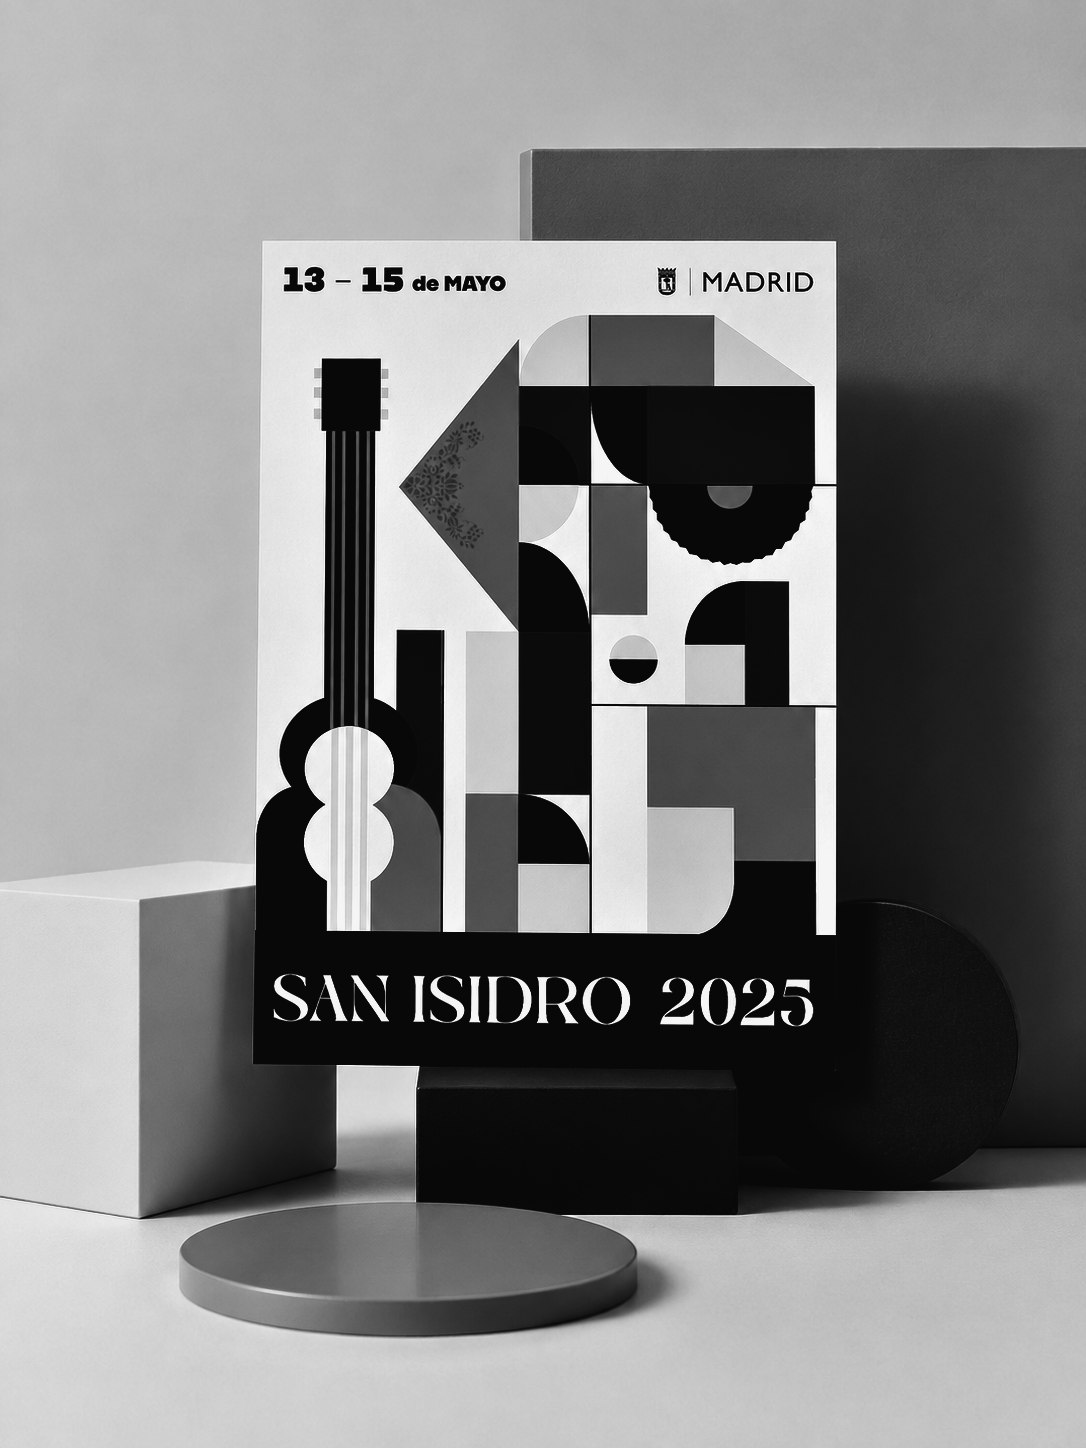
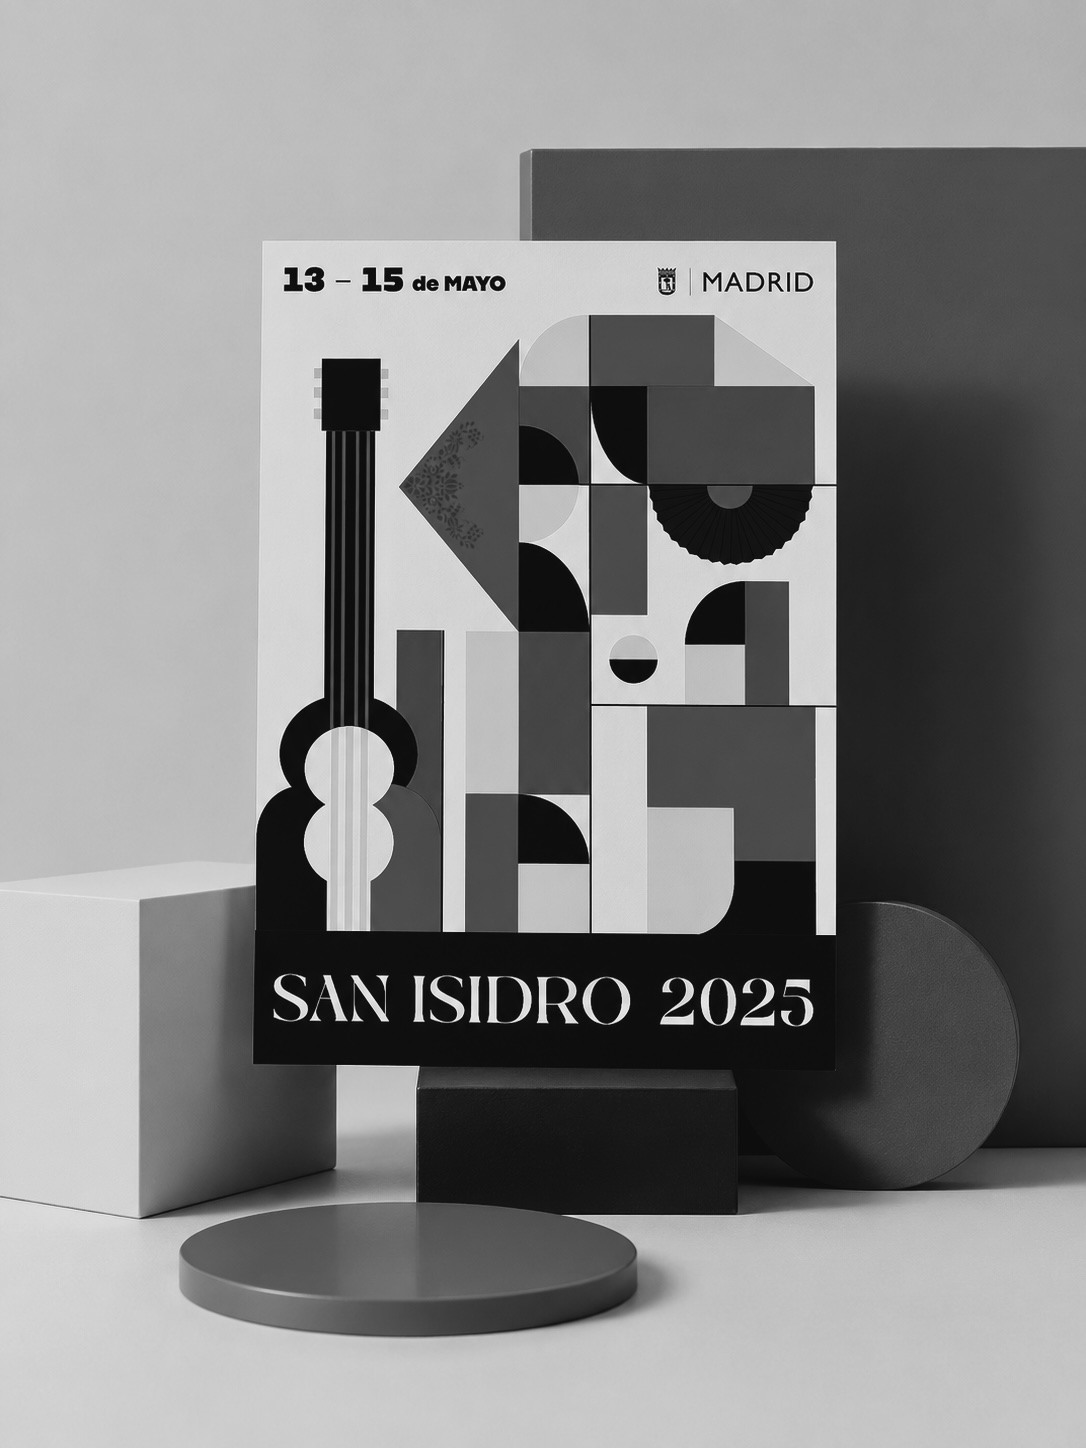
Replace B&W covers with the new user-provided versions

diff --git a/index.html b/index.html
@@ -43,23 +43,23 @@
     </div>
     <div class="work-grid">
       <a class="work-card" href="madma.html">
-        <div class="thumb"><img class="bw" src="images/covers/madma-bw.jpg?v=3" alt="MADMA"><img class="col" src="images/covers/madma.jpg" alt=""></div>
+        <div class="thumb"><img class="bw" src="images/covers/madma-bw.jpg?v=4" alt="MADMA"><img class="col" src="images/covers/madma.jpg" alt=""></div>
         <div class="meta"><h3>MADMA</h3><span>Brand identity</span></div>
       </a>
       <a class="work-card" href="sol-sal.html">
-        <div class="thumb"><img class="bw" src="images/covers/sol-sal-bw.jpg?v=3" alt="SOL &amp; SAL"><img class="col" src="images/covers/sol-sal.jpg" alt=""></div>
+        <div class="thumb"><img class="bw" src="images/covers/sol-sal-bw.jpg?v=4" alt="SOL &amp; SAL"><img class="col" src="images/covers/sol-sal.jpg" alt=""></div>
         <div class="meta"><h3>SOL &amp; SAL</h3><span>Brand identity</span></div>
       </a>
       <a class="work-card" href="xoko.html">
-        <div class="thumb"><img class="bw" src="images/covers/xoko-bw.jpg?v=3" alt="XOKO"><img class="col" src="images/covers/xoko.jpg" alt=""></div>
+        <div class="thumb"><img class="bw" src="images/covers/xoko-bw.jpg?v=4" alt="XOKO"><img class="col" src="images/covers/xoko.jpg" alt=""></div>
         <div class="meta"><h3>XOKO</h3><span>Packaging</span></div>
       </a>
       <a class="work-card" href="san-isidro.html">
-        <div class="thumb"><img class="bw" src="images/covers/san-isidro-bw.jpg?v=3" alt="San Isidro 2025" style="object-position: 50% 40%"><img class="col" src="images/covers/san-isidro.jpg" alt="" style="object-position: 50% 40%"></div>
+        <div class="thumb"><img class="bw" src="images/covers/san-isidro-bw.jpg?v=4" alt="San Isidro 2025" style="object-position: 50% 40%"><img class="col" src="images/covers/san-isidro.jpg" alt="" style="object-position: 50% 40%"></div>
         <div class="meta"><h3>San Isidro 2025</h3><span>Poster design</span></div>
       </a>
       <a class="work-card" href="espacio-emocional.html">
-        <div class="thumb"><img class="bw" src="images/covers/espacio-emocional-bw.jpg?v=3" alt="Espacio Emocional"><img class="col" src="images/covers/espacio-emocional.jpg" alt=""></div>
+        <div class="thumb"><img class="bw" src="images/covers/espacio-emocional-bw.jpg?v=4" alt="Espacio Emocional"><img class="col" src="images/covers/espacio-emocional.jpg" alt=""></div>
         <div class="meta"><h3>Espacio Emocional</h3><span>Editorial &amp; research</span></div>
       </a>
     </div>
@@ -119,11 +119,11 @@ document.getElementById('footerYear').textContent = new Date().getFullYear() + '
   if (!root) return;
 
   var DATA = [
-    { href: 'madma.html', src: 'images/covers/madma.jpg', bw: 'images/covers/madma-bw.jpg?v=3', title: 'MADMA', pos: '50% 50%' },
-    { href: 'sol-sal.html', src: 'images/covers/sol-sal.jpg', bw: 'images/covers/sol-sal-bw.jpg?v=3', title: 'SOL & SAL', pos: '50% 50%' },
-    { href: 'xoko.html', src: 'images/covers/xoko.jpg', bw: 'images/covers/xoko-bw.jpg?v=3', title: 'XOKO', pos: '50% 50%' },
-    { href: 'san-isidro.html', src: 'images/covers/san-isidro.jpg', bw: 'images/covers/san-isidro-bw.jpg?v=3', title: 'San Isidro 2025', pos: '50% 40%' },
-    { href: 'espacio-emocional.html', src: 'images/covers/espacio-emocional.jpg', bw: 'images/covers/espacio-emocional-bw.jpg?v=3', title: 'Espacio Emocional', pos: '50% 50%' }
+    { href: 'madma.html', src: 'images/covers/madma.jpg', bw: 'images/covers/madma-bw.jpg?v=4', title: 'MADMA', pos: '50% 50%' },
+    { href: 'sol-sal.html', src: 'images/covers/sol-sal.jpg', bw: 'images/covers/sol-sal-bw.jpg?v=4', title: 'SOL & SAL', pos: '50% 50%' },
+    { href: 'xoko.html', src: 'images/covers/xoko.jpg', bw: 'images/covers/xoko-bw.jpg?v=4', title: 'XOKO', pos: '50% 50%' },
+    { href: 'san-isidro.html', src: 'images/covers/san-isidro.jpg', bw: 'images/covers/san-isidro-bw.jpg?v=4', title: 'San Isidro 2025', pos: '50% 40%' },
+    { href: 'espacio-emocional.html', src: 'images/covers/espacio-emocional.jpg', bw: 'images/covers/espacio-emocional-bw.jpg?v=4', title: 'Espacio Emocional', pos: '50% 50%' }
   ];
   var N = DATA.length;
   var RANGE = 9, SLOTS = RANGE * 2 + 1;
